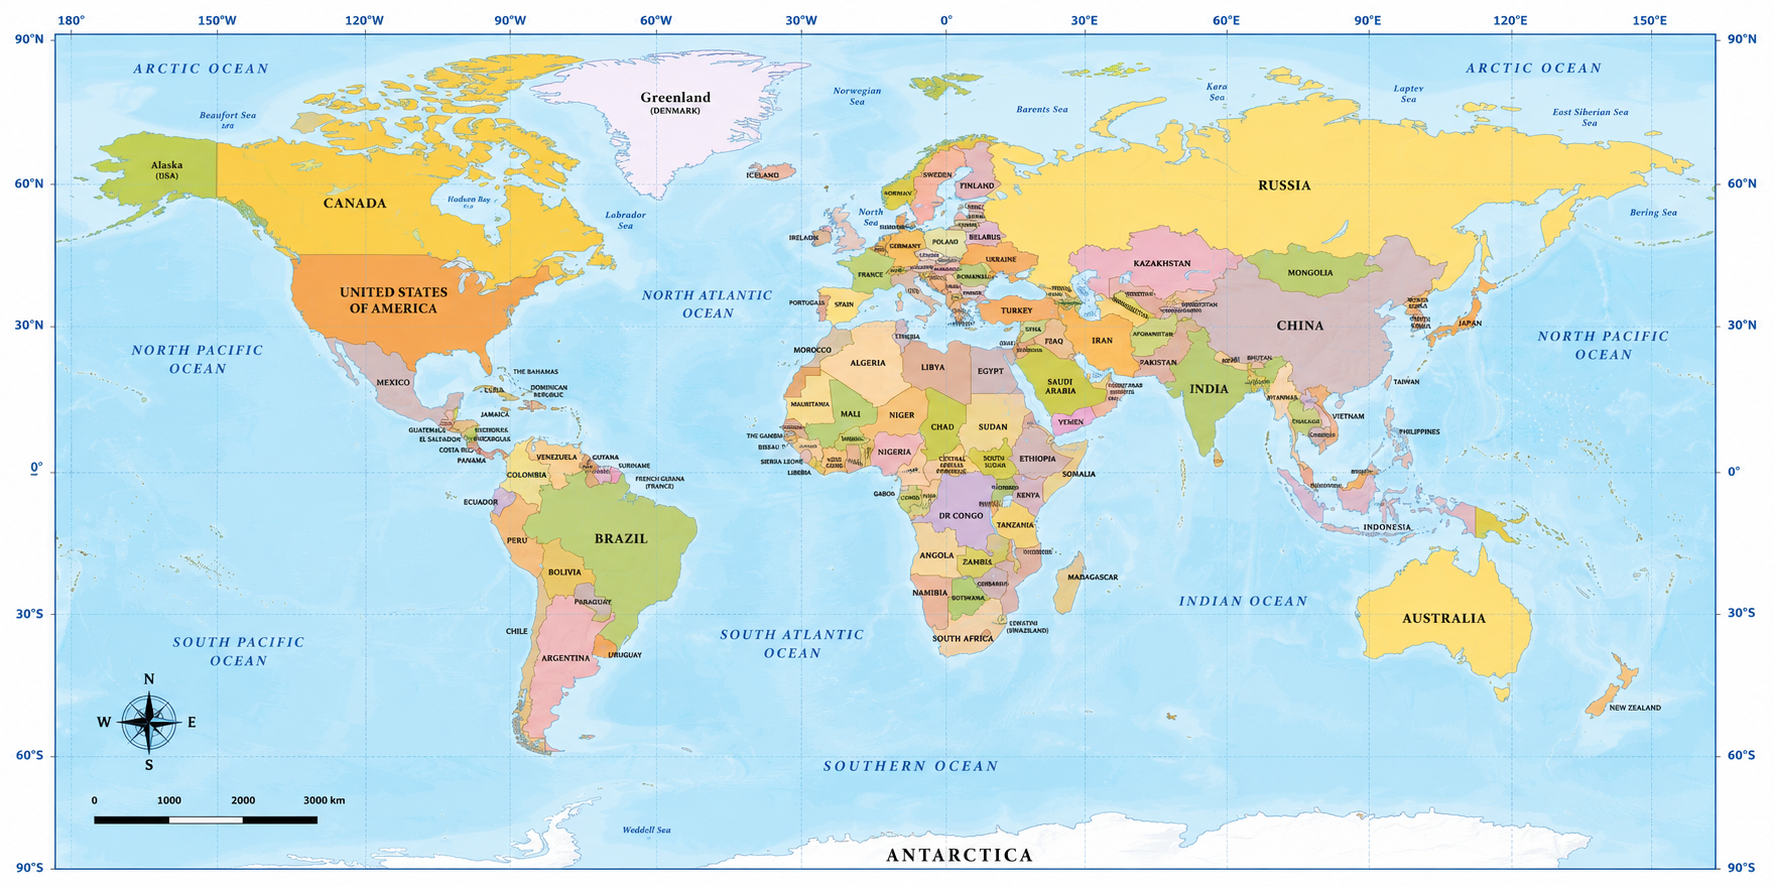
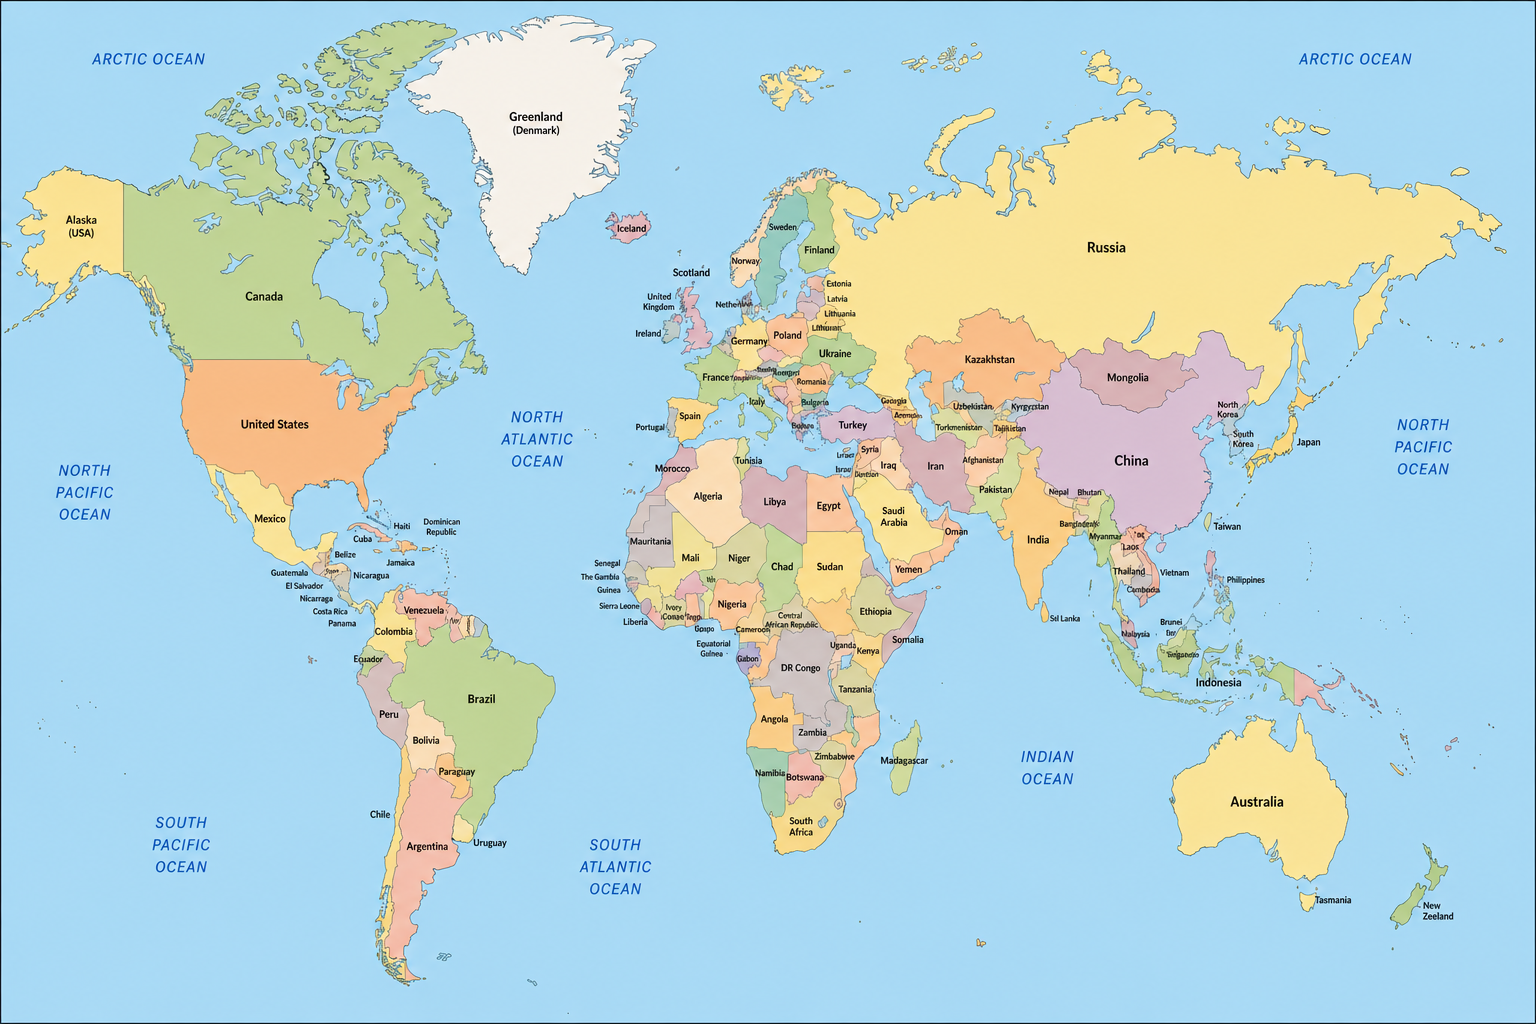
Replace map and improve geomagnetic gauge layout

diff --git a/styles.css b/styles.css
@@ -323,12 +323,12 @@ h2 {
 
 .space-weather {
   display: grid;
-  grid-template-columns: auto minmax(0, 1fr);
+  grid-template-columns: minmax(0, 1fr) auto;
   align-content: start;
   align-items: center;
-  gap: 18px;
+  gap: 22px;
   border-left-width: 5px;
-  padding: 18px;
+  padding: 20px;
 }
 
 .space-weather.quiet {
@@ -345,20 +345,21 @@ h2 {
 
 .space-weather strong {
   display: block;
-  font-size: clamp(1.45rem, 5vw, 2.25rem);
+  font-size: clamp(1.7rem, 6vw, 2.75rem);
   line-height: 1.15;
 }
 
 .space-weather p {
-  max-width: 820px;
+  max-width: 980px;
   margin: 8px 0 0;
   color: var(--muted);
+  font-size: clamp(1rem, 3.5vw, 1.24rem);
   line-height: 1.45;
 }
 
 .weatherGauge {
-  width: 124px;
-  height: 124px;
+  width: clamp(156px, 22vw, 210px);
+  height: clamp(156px, 22vw, 210px);
   border-radius: 50%;
   display: grid;
   place-items: center;
@@ -378,7 +379,7 @@ h2 {
 .weatherGauge:after {
   content: "";
   position: absolute;
-  inset: 12px;
+  inset: 15px;
   border-radius: 50%;
   background: #101a2d;
 }
@@ -391,16 +392,18 @@ h2 {
 
 .weatherGauge b {
   align-self: end;
-  font-size: 2.35rem;
+  font-size: clamp(3rem, 8vw, 4.4rem);
   line-height: .9;
 }
 
 .weatherGauge span {
   align-self: start;
   color: var(--muted);
-  font-size: .78rem;
+  font-size: clamp(.72rem, 2.4vw, .92rem);
   font-weight: 900;
   text-transform: uppercase;
+  text-align: center;
+  line-height: 1.05;
 }
 
 .weatherCopy {
@@ -676,6 +679,7 @@ h2 {
     padding: 14px;
     text-align: center;
     justify-items: center;
+    gap: 18px;
   }
 
   .space-weather p {
@@ -684,12 +688,18 @@ h2 {
   }
 
   .weatherGauge {
-    width: 118px;
-    height: 118px;
+    width: min(72vw, 260px);
+    height: min(72vw, 260px);
+    order: 2;
+  }
+
+  .weatherGauge:after {
+    inset: 18px;
   }
 
   .weatherCopy {
     width: 100%;
+    order: 1;
   }
 
   .space-weather.quiet {

diff --git a/app.js b/app.js
@@ -175,12 +175,18 @@ function endpointPoint(box, endpoint) {
 function renderPathMap(a, b, endpoints = null) {
   const aCenter = endpointPoint(a, endpoints?.a);
   const bCenter = endpointPoint(b, endpoints?.b);
-  const viewWidth = 1792;
+  const viewWidth = 1536;
   const viewHeight = 1024;
-  const mapFrame = { x: 56, y: 35, width: 1680, height: 856 };
+  const mapFrame = { x: 0, y: 0, width: 1536, height: 1024 };
+  const projectLat = (lat) => {
+    const clamped = Math.max(-90, Math.min(90, lat));
+    const radians = clamped * Math.PI / 180;
+    const robinsonish = Math.sign(clamped) * Math.pow(Math.abs(Math.sin(radians)), 0.78);
+    return mapFrame.y + (0.5 - robinsonish * 0.5) * mapFrame.height;
+  };
   const mapProject = (point) => ({
     x: mapFrame.x + ((point.lon + 180) / 360) * mapFrame.width,
-    y: mapFrame.y + ((90 - Math.max(-90, Math.min(90, point.lat))) / 180) * mapFrame.height
+    y: projectLat(point.lat)
   });
   const aPoint = mapProject(aCenter);
   const bPoint = mapProject(bCenter);
@@ -189,7 +195,7 @@ function renderPathMap(a, b, endpoints = null) {
   const curve = Math.min(190, Math.max(70, Math.hypot(dx, dy) * 0.16));
   const midX = (aPoint.x + bPoint.x) / 2;
   const midY = (aPoint.y + bPoint.y) / 2 - curve;
-  const labelX = (point) => Math.min(viewWidth - 220, Math.max(24, point.x + 18));
+  const labelX = (point) => Math.min(viewWidth - 240, Math.max(24, point.x + 18));
   const labelY = (point) => Math.min(viewHeight - 30, Math.max(36, point.y - 16));
   const basis = endpoints?.source ? ` (${endpoints.source})` : "";
   els.mapMeta.textContent = `${a.name} to ${b.name}${basis}`;

diff --git a/index.html b/index.html
@@ -9,7 +9,7 @@
     body{margin:0;min-height:100vh;background:#0b1220;color:#eef5ff;font-family:system-ui,-apple-system,Segoe UI,sans-serif}.wrap{max-width:1200px;margin:auto;padding:18px 14px}.appHeader,.card,.panel,.status{background:#111b2f;border:1px solid rgba(255,255,255,.12);border-radius:20px;padding:16px;margin-bottom:14px}.grid{display:grid;gap:14px}select,input,button{min-height:44px;border-radius:12px;border:1px solid rgba(255,255,255,.15);background:#0d1729;color:#eef5ff;font:inherit}.title h1{font-size:clamp(2rem,6vw,3.35rem);margin:0}
   </style>
   <link rel="manifest" href="manifest.webmanifest">
-  <link rel="stylesheet" href="styles.css?v=16">
+  <link rel="stylesheet" href="styles.css?v=17">
 </head>
 <body>
   <main class="wrap">
@@ -117,14 +117,14 @@
     </section>
 
     <section class="card weatherCard space-weather quiet" id="spaceWeather" aria-label="Space weather">
-      <div class="weatherGauge" id="spaceWeatherGauge" style="--gauge: 0">
-        <b id="spaceWeatherScore">--</b>
-        <span>field</span>
-      </div>
       <div class="weatherCopy">
         <span class="weather-label">Space weather</span>
         <strong id="spaceWeatherTitle">Checking NOAA Kp...</strong>
         <p id="spaceWeatherBody">Recent geomagnetic activity can make current HF conditions differ from the historical WSPR pattern.</p>
+      </div>
+      <div class="weatherGauge" id="spaceWeatherGauge" style="--gauge: 0">
+        <b id="spaceWeatherScore">--</b>
+        <span>Geomagnetic<br>field score</span>
       </div>
     </section>
 
@@ -170,6 +170,6 @@
       100W estimates scale WSPR SNR by reported TX power.
     </footer>
   </main>
-  <script src="app.js?v=16"></script>
+  <script src="app.js?v=17"></script>
 </body>
 </html>

diff --git a/sw.js b/sw.js
@@ -1,5 +1,5 @@
-const cacheName = "wsprspydx-v16";
-const appFiles = ["./", "./index.html", "./styles.css?v=16", "./app.js?v=16", "./manifest.webmanifest", "./icon.svg", "./world-map.png"];
+const cacheName = "wsprspydx-v17";
+const appFiles = ["./", "./index.html", "./styles.css?v=17", "./app.js?v=17", "./manifest.webmanifest", "./icon.svg", "./world-map.png"];
 
 self.addEventListener("install", (event) => {
   event.waitUntil(caches.open(cacheName).then((cache) => cache.addAll(appFiles)));

diff --git a/README.md b/README.md
@@ -5,7 +5,7 @@ WSPRSpyDX is a compact DX path dashboard for checking historical WSPR propagatio
 The project is available in two formats:
 
 - **HTML/PWA dashboard**: the source files at the repository root can be hosted with GitHub Pages or any static web host.
-- **Android APK**: `releases/WSPRSpyDX-v0.5-debug.apk` is a debug-signed test build that bundles the same dashboard inside a small Android WebView app.
+- **Android APK**: `releases/WSPRSpyDX-v0.6-debug.apk` is a debug-signed test build that bundles the same dashboard inside a small Android WebView app.
 
 ## Features
 
@@ -76,7 +76,7 @@ GitHub will provide a public URL for the HTML dashboard.
 The test APK is:
 
 ```text
-releases/WSPRSpyDX-v0.5-debug.apk
+releases/WSPRSpyDX-v0.6-debug.apk
 ```
 
 To install it on Android:
@@ -112,7 +112,7 @@ The current test APK was built locally from this wrapper and the dashboard asset
 |-- world-map.png
 |-- android-apk/
 `-- releases/
-    `-- WSPRSpyDX-v0.5-debug.apk
+    `-- WSPRSpyDX-v0.6-debug.apk
 ```
 
 ## Notes
@@ -120,5 +120,6 @@ The current test APK was built locally from this wrapper and the dashboard asset
 - The HTML shell can load offline after caching, but propagation data requires internet access.
 - The 100 W and mode indicators are practical estimates, not guarantees of a QSO.
 - WSPR uses very low power and narrow-band reporting, so use the dashboard as a path reckoner rather than a definitive prediction engine.
+
 
 